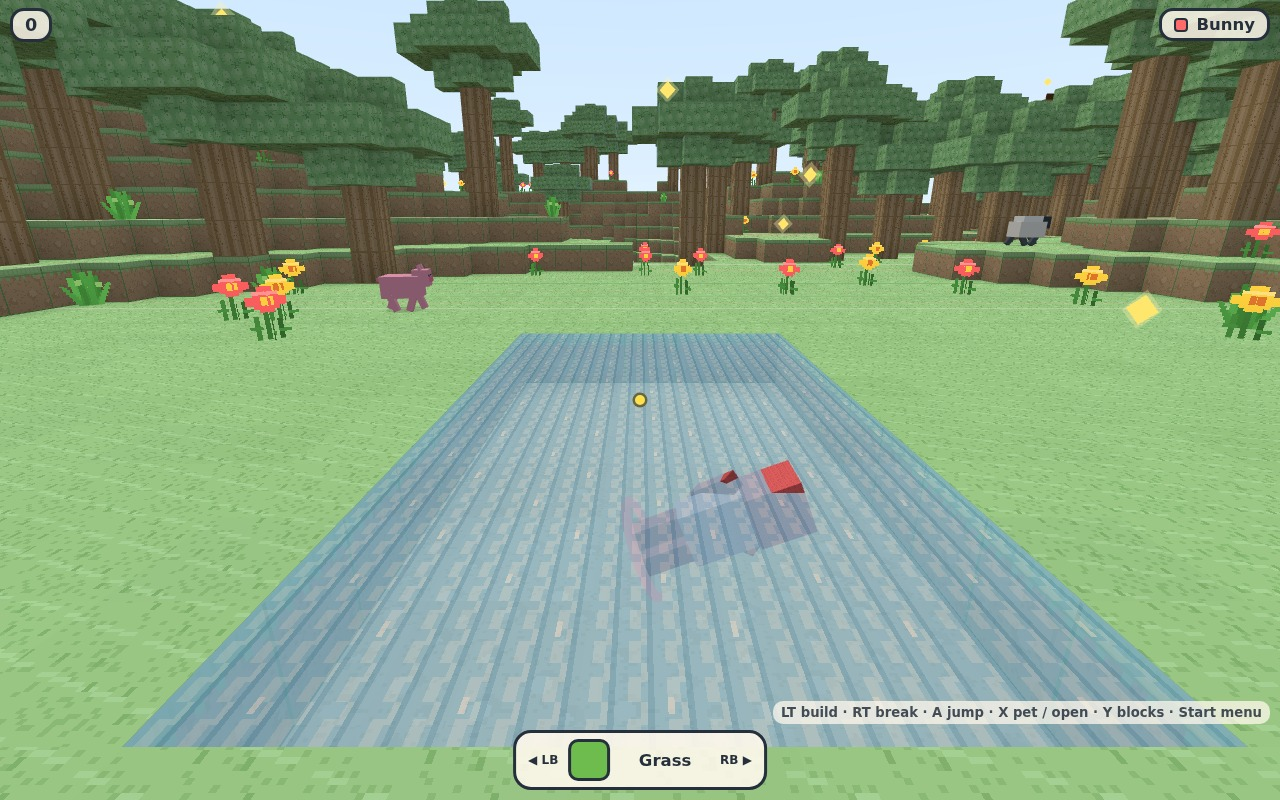
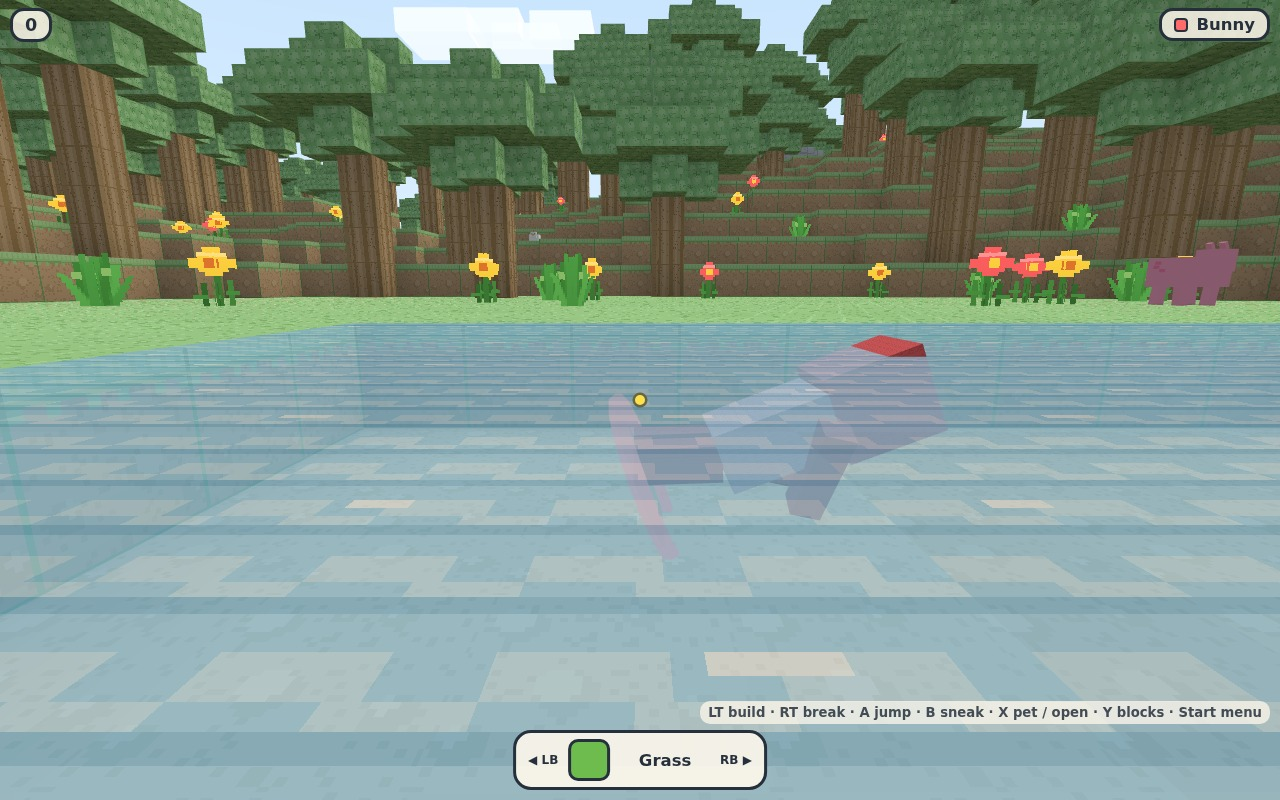
fix(swim): face-down lean follows the facing, not world space
The avatar group used three's default 'XYZ' Euler order, so syncAvatar's
swim pitch (rotation.x) rotated about the WORLD x-axis: the kid leaned
toward one fixed direction no matter where they looked (upside-down when
facing -z). createAvatar now pins rotation.order = 'YXZ' (yaw-then-pitch,
the FPS convention), so the lean swivels with the body. The swimming test
samples the body's world +Y at two yaws — the guard reads ~0 (stuck) vs
1.3 (fixed). Shot script parks the camera at the waterline for a side
profile that actually shows the stroke.

diff --git a/tests/e2e/game.spec.ts b/tests/e2e/game.spec.ts
@@ -769,6 +769,27 @@ test('swimming: paddling like a proper kid — stroke, surface float, kick-up an
   const strokes = await page.evaluate(() => (window as any).__lbw.game.lastStroke.size);
   expect(strokes).toBeGreaterThan(0);
 
+  // the lean must follow WHERE THE KID FACES: the body's head direction
+  // (local +Y in world space) sampled at two yaws has to swivel with them.
+  // three's default 'XYZ' Euler order pitches about the WORLD x-axis, which
+  // kept the head pointing one fixed way for every yaw (the old bug).
+  const headDirAt = (yaw: number) =>
+    page.evaluate((y: number) => {
+      const e = (window as any).__lbw.game.players[0].entity;
+      e.yaw = y;
+      e.syncAvatar(0.016);
+      e.avatar.group.updateMatrixWorld(true);
+      const el = e.avatar.body.matrixWorld.elements; // column 2 = world dir of local +Y
+      return { x: el[4], y: el[5], z: el[6] };
+    }, yaw);
+  const headSouth = await headDirAt(0);
+  const headEast = await headDirAt(Math.PI / 2);
+  const headShift = Math.hypot(
+    headSouth.x - headEast.x, headSouth.y - headEast.y, headSouth.z - headEast.z,
+  );
+  expect(headShift).toBeGreaterThan(0.8); // face-down lean swivels with the kid
+  await frames(page, 10); // let the paddle resume from that yaw
+
   // surface float: stop swimming and the kid bobs near the surface, not
   // plunging to the bottom
   await page.evaluate(() => (window as any).__testPad.setMove(0, 0));

diff --git a/scripts/pr-swim-shot.ts b/scripts/pr-swim-shot.ts
@@ -81,6 +81,13 @@ await page.evaluate(() => {
     orig(...args);
     if (lp.ghost) lp.ghost.visible = false;
     if (lp.outline) lp.outline.visible = false;
+    if ((window as any).__sideCam) {
+      // park the camera at the waterline beside the swimmer: a side profile
+      // shows the face-down lean far better than the trailing behind-view
+      const e = lp.entity;
+      lp.camera.position.set(e.pos.x, e.pos.y + 1.05, e.pos.z + 3.0);
+      lp.camera.lookAt(e.pos.x, e.pos.y + 0.45, e.pos.z);
+    }
   };
 });
 await page.waitForFunction('window.__lbw.game.players[0].entity.inWaterNow === true', null, { timeout: 15000 });
@@ -90,8 +97,17 @@ await page.evaluate(() => {
   const e = (window as any).__lbw.game.players[0].entity;
   e.vel.y = 2.2; // mid-kick, head about to clear the waterline
   e.walkPhase += 1.1; // mid-stroke arms
+  (window as any).__sideCam = true; // swing the camera to the waterline side-view
 });
-await page.waitForTimeout(420);
+await page.waitForTimeout(250);
+console.log('swim state:', await page.evaluate(() => {
+  const e = (window as any).__lbw.game.players[0].entity;
+  const g = e.avatar.group;
+  return {
+    x: g.rotation.x.toFixed(2), y: g.rotation.y.toFixed(2), order: g.rotation.order,
+    swim: e.swimmingNow, inWater: e.inWaterNow, vy: e.vel.y.toFixed(2),
+  };
+}));
 await page.screenshot({ path: `${outDir}/swimming.jpg`, type: 'jpeg', quality: 92 });
 
 await browser.close();

diff --git a/src/players/avatar.ts b/src/players/avatar.ts
@@ -173,6 +173,10 @@ export function createAvatar(colorHex: string): AvatarParts {
   const light = color.clone().lerp(new THREE.Color(0xffffff), 0.35);
 
   const group = new THREE.Group();
+  // yaw-then-pitch: the swim lean must rotate WITH the facing. With three's
+  // default 'XYZ' order, rotation.x pitches about the WORLD x-axis, so the
+  // face-down lean pointed one fixed direction no matter where the kid looked.
+  group.rotation.order = 'YXZ';
   const body = new THREE.Group();
   group.add(body);
 

diff --git a/AGENTS.md b/AGENTS.md
@@ -81,7 +81,11 @@ event. Renaming a storage key orphans the family's existing saves.
   shore-escape rule, keep it). Strokes tick `events.stroked` every
   `STROKE_SECONDS` → `Game.lastStroke` dedups → `audio.swimStroke`. The avatar
   leans face-down (`syncAvatar` rotation.x ≈ 1.2) with a breaststroke/flutter
-  pose from `animateAvatar(..., swimming)`. Any test that edits terrain near
+  pose from `animateAvatar(..., swimming)`. The avatar group MUST keep
+  `rotation.order = 'YXZ'` (set in `createAvatar`): three's default 'XYZ'
+  pitches about the WORLD x-axis, so the lean stayed stuck pointing one fixed
+  direction instead of following the facing. The swimming test samples the
+  body's world +Y at two yaws to keep that honest. Any test that edits terrain near
   spawn and is followed by a test that re-boots must `await game.saveNow()`
   after the refill — autosave is debounced 1.5 s and a fast page swap loses it
   (this bit the shore-jump → swimming handoff).
